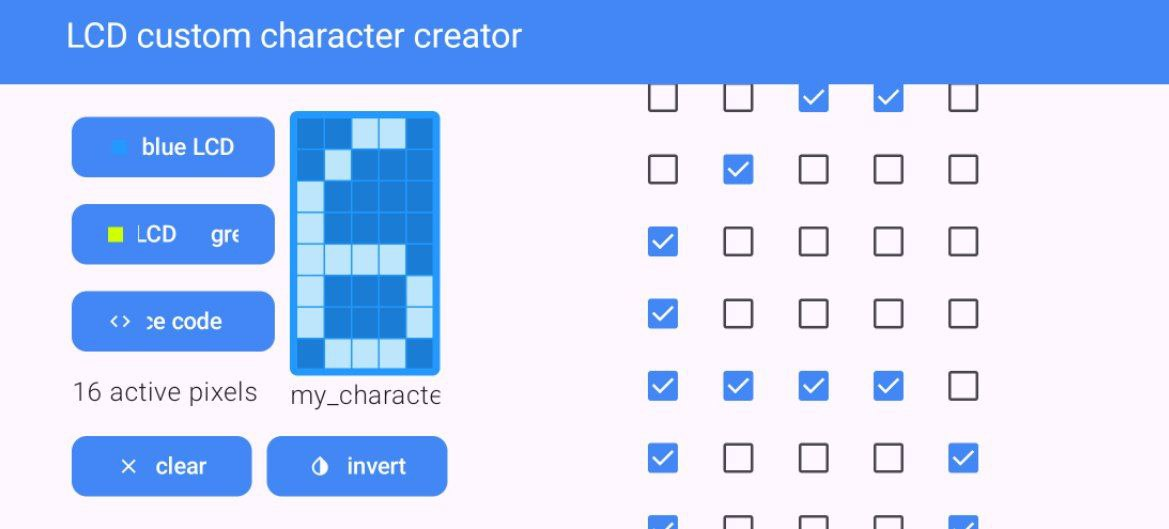
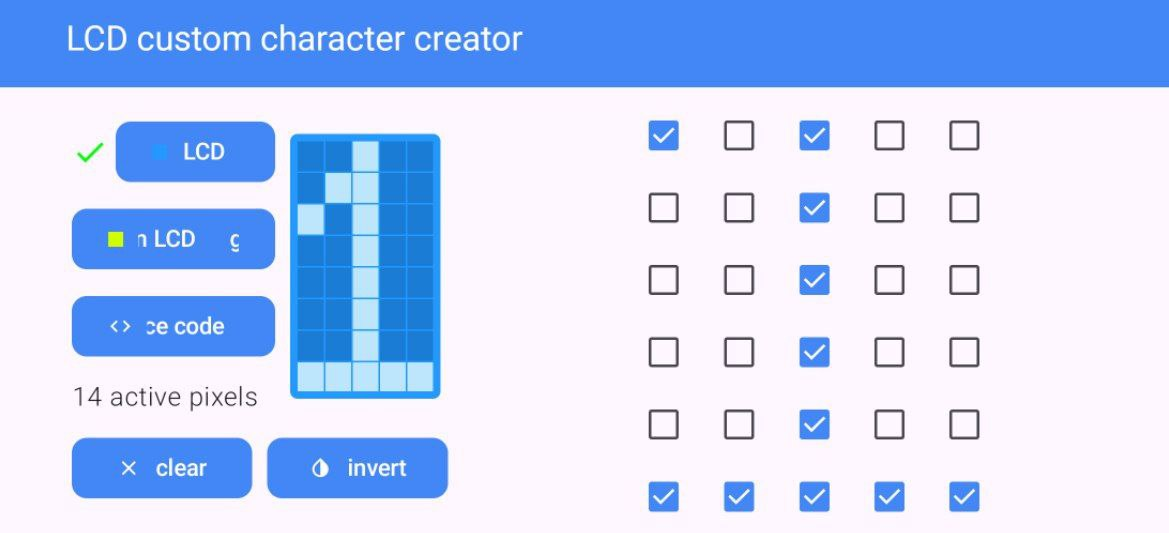
Update previews

diff --git a/README.md b/README.md
@@ -9,22 +9,13 @@
 <table>
     <tr>
         <td>
-            <img src="previews\lcd_app_screen_1.jpg">
+            <img src="previews\lcd_app_screen1.jpg">
         </td>
         <td>
-            <img src="previews\lcd_app_screen_2.jpg">
+            <img src="previews\lcd_app_screen2.jpg">
         </td>
         <td>
-            <img src="previews\lcd_app_screen_4.jpg">
-        </td>
-        <td>
-            <img src="previews\lcd_app_screen_5.jpg">
-        </td>
-        <td>
-            <img src="previews\lcd_app_screen_6.jpg">
-        </td>
-        <td>
-            <img src="previews\lcd_app_screen_8.jpg">
+            <img src="previews\lcd_app_screen3.jpg">
         </td>
     </tr>
 </table>
@@ -55,26 +46,7 @@ Android **8.0** and later
 To start creating custom character for your LCD display, use input panel with checkboxes. By checking a checkbox, you enable one pixel at a specific position, multiple such checked checkboxes determine the pixels used in your character. You can check the result by looking at a special preview stylized for the display. You can then view the characters's code(and copy to buffer) on **C++** - **character's byte array in binary or hex type (See examples -> <a href="previews/source_code_examples.md">see</a>)**. Then you use it when working in **Arduino** libraries for LCD: **LiquidCrystal**, **LiquidCrystalI2C**.
 
 ### Additional functionality
-There is additional functionality to make work easier. For example, if you want to see what a character would look like on a green LCD display, **just press the "*green lcd*" button to change preview skin to green (1)**. **If you need to invert, click the "*invert*" button (2)**. Need to clear all, press "*clear*" button.
-
-<table>
-    <tr>
-        <td>
-            <img src="previews\lcd_app_screen_6.jpg" style="width: 150px;">
-        </td>
-        <td>
-            <img src="previews\lcd_inverted.jpg" style="width: 150px;">
-        </td>
-    </tr>
-    <tr>
-        <td>
-            <h3>1 green lcd🟢</h3>
-        </td>
-        <td>
-            <h3>2 invert pixels🔀</h3>
-        </td>
-    </tr>
-</table>
+There is additional functionality to make work easier. For example, if you want to see what a character would look like on a green LCD display, **just press the "*green lcd*" button to change preview skin to green**. **If you need to invert, click the "*invert*" button**. Need to clear all, press "*clear*" button.
 
 ## License
 This project is licensed under the [MIT License](LICENSE)
